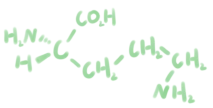
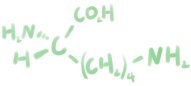
update

Changed region(s): [[0.0, 0.2558, 0.9948, 0.9535], [0.3403, 0.0465, 0.6021, 0.2791]]

diff --git a/_sass/_memaa.scss b/_sass/_memaa.scss
@@ -14,10 +14,6 @@
             padding: .1em .5em;
             border: 1px solid $border-color;
             border-radius: .5em;
-
-            &:hover {
-                border-color: $link-hover-color;
-            }
         }
     }
 }
@@ -28,7 +24,7 @@
 
 .memaa-false {
     border-color: $red !important;
-    animation: blink ease .5s 2;
+    animation: blink ease .4s 2;
 }
 
 .memaa {
@@ -36,24 +32,11 @@
     min-height: max-content;
 }
 
-%memaa-side {
+.memaa-right {
     display: flex;
     align-items: center;
     padding: 0 .3em;
-
-    &:hover {
-        cursor: pointer;
-        background-color: $gray-100;
-    }
-}
-
-.memaa-right {
-    @extend %memaa-side;
     margin-left: auto;
-}
-
-.memaa-left {
-    @extend %memaa-side;
 }
 
 .memaa-fade-in {
@@ -81,7 +64,7 @@
     }
 
     50% {
-        opacity: .6;
+        opacity: .4;
     }
 
     100% {
@@ -96,5 +79,16 @@
 
     75% {
         translate: 0.2em;
+    }
+}
+
+@media (any-hover: hover) {
+    .memaa-options>li>a:hover {
+        border-color: $link-hover-color;
+    }
+
+    .memaa-right:hover {
+        cursor: pointer;
+        background-color: $gray-100;
     }
 }

diff --git a/_layouts/page.html b/_layouts/page.html
@@ -15,7 +15,7 @@ layout: default
     <div class="masthead-tagline">
       <small id="splash" class="shake-hard"></small>
       <script src="/assets/js/splash.js"></script>
-      <script>document.getElementById('splash').innerHTML = Splash.pickSplash();</script>
+      <script>document.getElementById('splash').innerHTML = Splash.pickSplash()</script>
     </div>
 
     <nav>

diff --git a/index.html b/index.html
@@ -13,7 +13,7 @@ layout: page
       <time datetime="{{ post.date | date_to_xmlschema }}">{{ post.date | date_to_string }}</time>
     </div>
 
-    <p>{{ post.excerpt | strip_html }}</p>
+    <p>{{ post.excerpt | strip_html | truncate: 100 }}</p>
   </section>
 {% endfor %}
 

diff --git a/widgets/memaa.html b/widgets/memaa.html
@@ -1,12 +1,11 @@
 ---
 layout: showcase
 title: MemAA
-meta: v0.0.1
+meta: v0.0.2
 permalink: /widgets/memaa/
 ---
 
 <div class="memaa">
-    <!-- <div class="memaa-left">«</div> -->
     <div>
         <div id="question"></div>
         <ul class="memaa-options">

diff --git a/_posts/2023-02-16-amino-acid.md b/_posts/2023-02-16-amino-acid.md
@@ -7,9 +7,9 @@ tags: biochemistry
 
 blah blah...
 
-## 氨基酸的定义
+## 氨基酸的结构
 
-**物质**（氨基酸）同时有氨基$\ce{-NH2}$和羧基$\ce{-COOH}$的有机物称氨基酸. 若一氨基酸中羧基的$\alpha$碳是饱和碳且连着氨基和至少一个氢原子，则称该氨基酸为$\alpha$-氨基酸.
+**物质**（氨基酸）同时具有氨基和羧基的有机物称氨基酸. 若一氨基酸中羧基的$\alpha$碳是饱和碳且连着氨基和至少一个氢原子，则称该氨基酸为$\alpha$-氨基酸.
 
 ![](/assets/whiteboards/@alpha-aa.webp){:.display}
 <center><small>$\alpha$-氨基酸的结构通式</small></center>
@@ -79,7 +79,9 @@ blah blah...
 
 根据定义不难发现，所有蛋白质氨基酸都是L构型的，D构型的异构体tRNA无法识别.
 
-**反应**（两性离子性）氨基酸（或亚氨基酸）由于同时具有能提供质子的羧基和接受质子的氨基（或亚氨基），质子往往不在羧基上，而是与氨基（或亚氨基）相结合，形成内盐，即氨基酸及亚氨基酸通常以两性离子的形式存在.
+## 氨基酸的反应
+
+**反应**（两性离子性）氨基酸（或亚氨基酸）由于同时具有能提供质子的羧基和接受质子的氨基（或亚氨基），质子往往不在羧基上，而是与氨基（或亚氨基）相结合，形成内盐. 即氨基酸及亚氨基酸通常以两性离子的形式存在.
 
 **例子**：固态的甘氨酸
 
@@ -99,10 +101,12 @@ TODO
 
 ---
 
+**命题**（等电点的估算）
+
+**例子**：
+
+**证明**：
+
 **反应**（$\alpha$-氨基酸和茚三酮反应）
 
 **反应**（$\alpha$-亚氨基酸和茚三酮反应）
-
-**反应**（氨基和FNDB反应）
-
-**反应**（氨基和PITC反应）

diff --git a/_posts/2023-02-14-carbonoxygen-double-bond.md b/_posts/2023-02-14-carbonoxygen-double-bond.md
@@ -1,14 +1,40 @@
 ---
 layout: post
-title:  羧酸
+title:  碳氧双键
 date:   2023-02-14 10:46:21 +0800
 tags: organic-chemistry
 ---
 
-blah blah...
+碳氧双键是有机物中非常普遍的结构. 许多物质都含有碳氧双键，常见的比方说醛、酮、羧酸，相对少见的有酰卤、酰胺. 含碳氧双键的有机物具有很多共性，譬如由于碳氧双键中的碳原子带$\delta^+$，能够在亲核试剂的进攻下发生亲核加成反应；含碳氧双键的有机物也具有多样性，由于碳氧双键周围基团的不同，虽然都带有碳氧双键，却能因这种不同而具有许多性质上的差异.
 
-> **Warning**
-> 文章中可能存在大量错误，仅供参考.
+## 含碳氧双键的有机物
+
+**物质**（醛）
+
+**物质**（酮）
+
+**物质**（羧酸）
+
+**物质**（酰卤）
+
+**物质**（酰胺）
+
+**物质**（酯）
+
+**物质**（酸酐）
+
+**物质**（羧酸的衍生物）
+
+## 碳氧双键上的亲核加成
+
+## 碳氧双键中$\alpha$-H的酸性
+
+## 碳氧双键中氧的亲核性
+
+## 碳氧双键的波谱
+
+
+---
 
 ## 羧酸的定义
 

diff --git a/_posts/2023-02-22-peptide-and-protein.md b/_posts/2023-02-22-peptide-and-protein.md
@@ -1,0 +1,30 @@
+---
+layout: post
+title:  肽与蛋白质
+date:   2023-02-22 19:06:34 +0800
+tags: biochemistry
+---
+
+TODO
+
+## 肽与蛋白质的结构
+
+**物质**（肽）
+
+**命题**（肽的一般结构）
+
+**例子**：
+
+**定义**（$\phi$角与$\psi$角）
+
+**例子**：
+
+**定义**（一级结构）
+
+**例子**：
+
+**定义**（二级结构）
+
+**定义**（$\alpha$-螺旋）
+
+**定义**（$\beta$-折叠）
